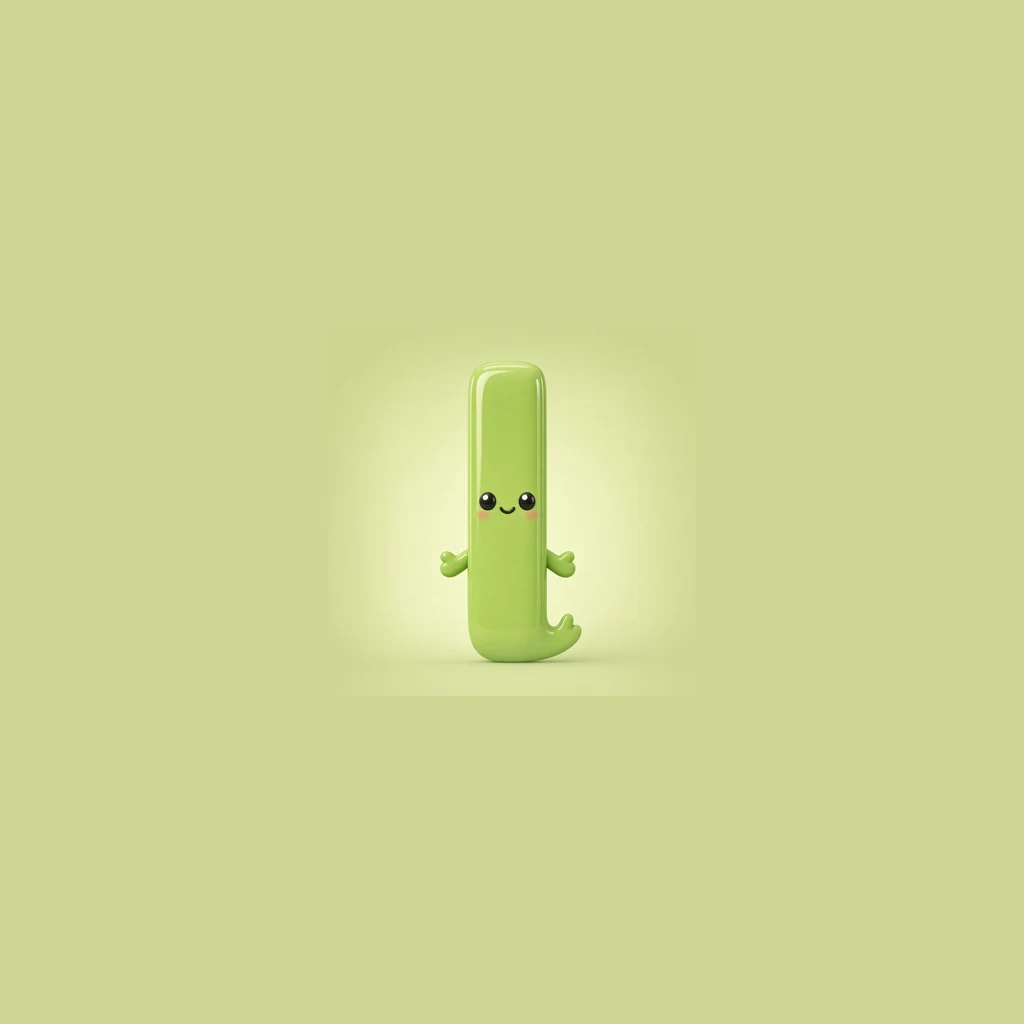
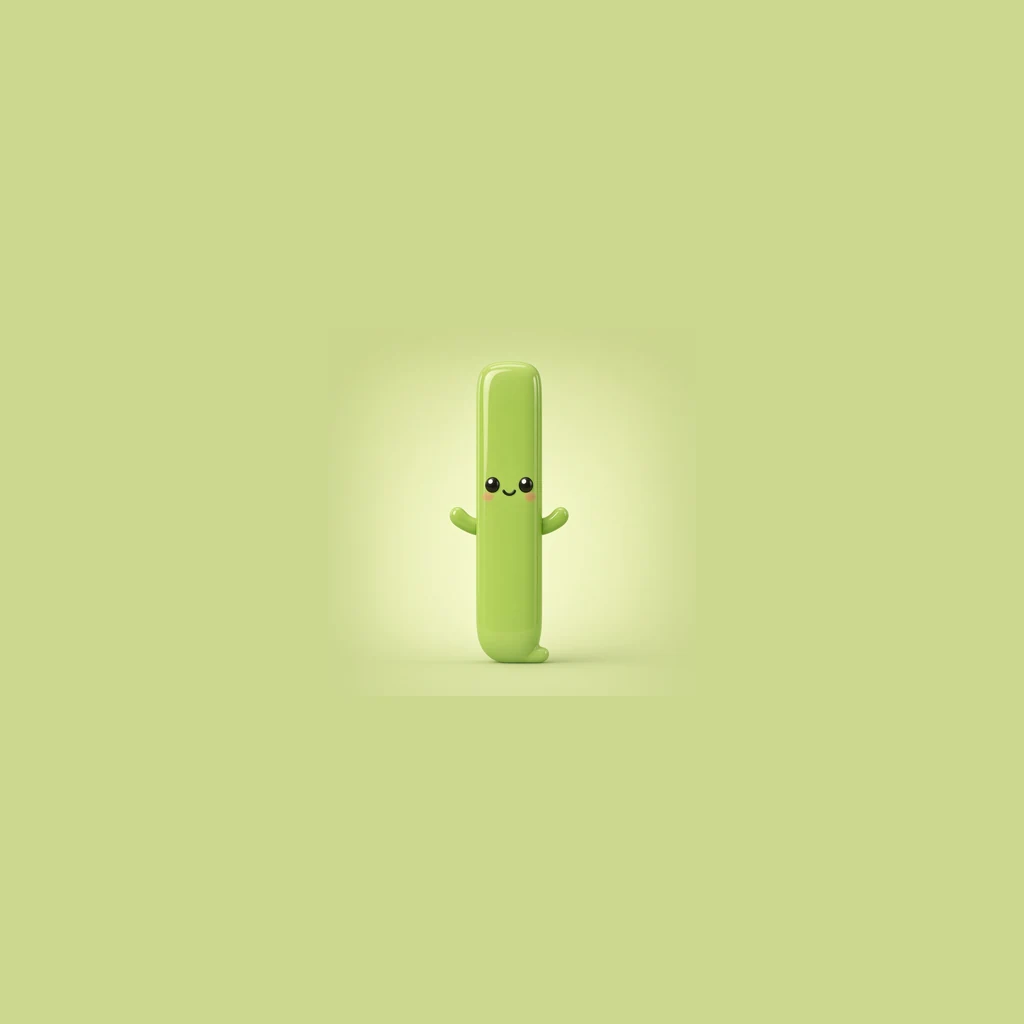
v0.181: little l is a normal font l, not a dolphin tail.

Changed region(s): [[0.4062, 0.3438, 0.5625, 0.6562]]

diff --git a/src/lib/version.ts b/src/lib/version.ts
@@ -12,7 +12,7 @@
  * Grok Publish: still remind at v0.070, v0.080… so the public link can match.
  */
 
-export const APP_VERSION = "0.180";
+export const APP_VERSION = "0.181";
 export const APP_VERSION_LABEL = `v${APP_VERSION}`;
 export const APP_SLUG = "abc-adventure";
 export const APP_DISPLAY_NAME = "ABC Adventure";

diff --git a/SESSION.md b/SESSION.md
@@ -1,6 +1,6 @@
 # Session compact — ABC Adventure
 
-**Version:** v0.180  
+**Version:** v0.181  
 **GitHub:** sh4gu4dummy-arch/abc-adventure `main`  
 **User tests in Grok live preview**, not APK, unless they ask.
 
@@ -32,6 +32,9 @@ really is done. Tap to play again (v0.129).
 | H heart | Crayon with two points | One-tip crayon; look-at-the-clip QA (not a tip-count law) |
 
 A–Z word videos exist. J–Z remade to locked sentences; A–I older unless later patched (G, H, fish, frog, etc.).
+
+## Meet l (v0.181)
+Normal font l: tiny right foot, no dolphin tail.
 
 ## Meet l (v0.180)
 Tail curls right. Says “little L” not “lell”. Meet cue line removed.

diff --git a/PROJECT.md b/PROJECT.md
@@ -113,7 +113,7 @@ npm run build:apk      # only when asked
 
 ## Versioning & downloads
 
-- **Current version:** `0.180` (`v0.180`) — stored in `VERSION` and `src/lib/version.ts` (keep in sync).
+- **Current version:** `0.181` (`v0.181`) — stored in `VERSION` and `src/lib/version.ts` (keep in sync).
 
 ## GitHub + Grok Publish cadence
 
